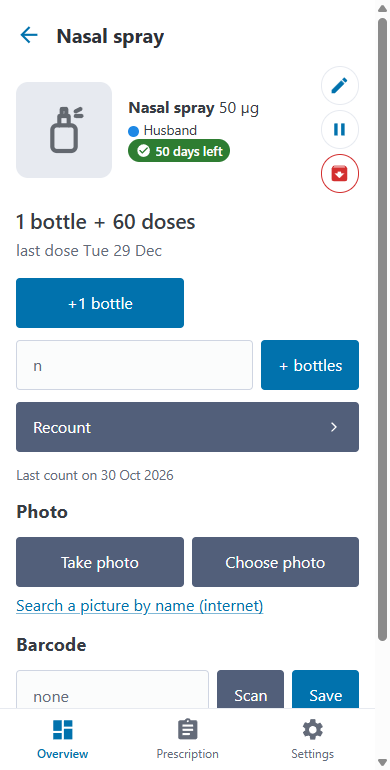
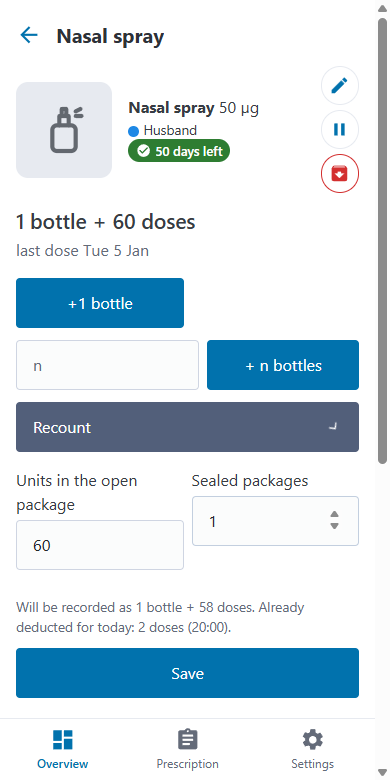
docs: new screenshots with intake times, README features, recount hint parked in future ideas (#22)

diff --git a/README.md b/README.md
@@ -5,9 +5,10 @@
 MedStock is a Home Assistant app (add-on) that tracks the medication stock of a household
 and tells you **how many days you have left**, without logging every single intake.
 
-- Stock goes down by itself, based on the usage you configure: per day, a weekly pattern
-  (e.g. one injection every Saturday) or "as needed".
-- Restocking is one tap: "+1 box", "+2".
+- Stock goes down by itself, based on the usage you configure: intake moments per day (e.g. 08:00 and 20:00), a
+  weekly pattern (e.g. one injection every Saturday), every N days or weeks, or "as needed".
+- Restocking is one tap: "+1 box", "+2". A mis-tap is undone with one tap.
+- Optional intake reminders at the intake time, with "Taken" and "Later" buttons; per user and per medication.
 - One list (profile) per person; everybody logged in to Home Assistant sees and edits everything.
 - Push notifications through the Home Assistant Companion app when something runs low (optionally discreet, without the medication name).
 - A doctor screen that tells you what to ask for, and how many boxes, to cover the next 90 days.
@@ -20,8 +21,9 @@ and tells you **how many days you have left**, without logging every single inta
 The UI is available in English, Dutch and French.
 
 <p>
-  <img src="docs/screenshots/overview.png" alt="Overview: medication sorted by urgency" width="260">
-  <img src="docs/screenshots/detail.png" alt="Detail: restock, recount, pause" width="260">
+  <img src="docs/screenshots/overview.png" alt="Overview: still to take today and medication sorted by urgency" width="260">
+  <img src="docs/screenshots/detail.png" alt="Detail: restock, recount with what will be recorded" width="260">
+  <img src="docs/screenshots/schedule.png" alt="Usage: intake moments with a time and an amount" width="260">
   <img src="docs/screenshots/prescription.png" alt="Prescription: what to ask the doctor" width="260">
 </p>
 

diff --git a/FUTURE_IDEAS.md b/FUTURE_IDEAS.md
@@ -35,3 +35,11 @@ An in-between step with little work: run standalone but keep sending notificatio
 (its URL plus a long-lived token instead of the Supervisor). Login would still be needed.
 
 Why parked: no household without Home Assistant needs it yet.
+
+## Recount hint
+
+The stock goes down by itself, but a forgotten dose or a spilled pill does not, so the count drifts over time. The
+detail screen (and maybe the overview) could give a soft hint after a while without a count, e.g. "Last count 2 months
+ago, recount?", with the period as a setting (e.g. 60 days, 0 = off).
+
+Why parked: not needed yet; the intake reminders and undo cover the daily mistakes.
